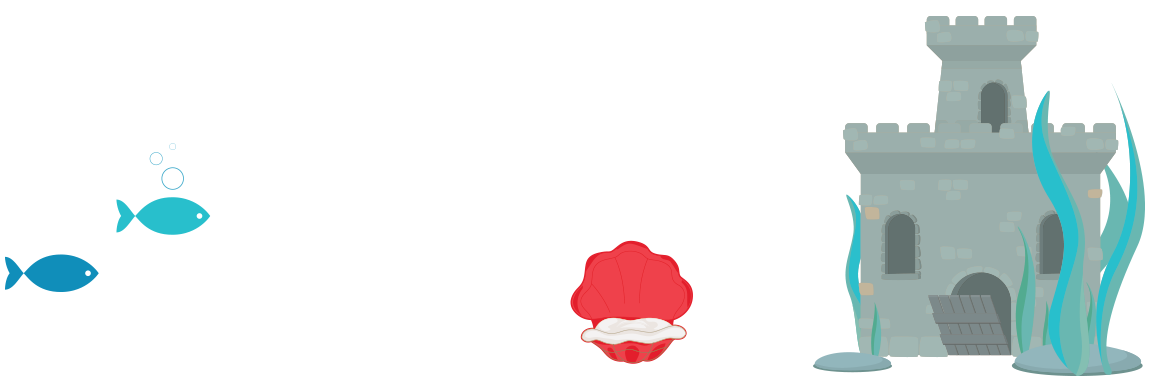
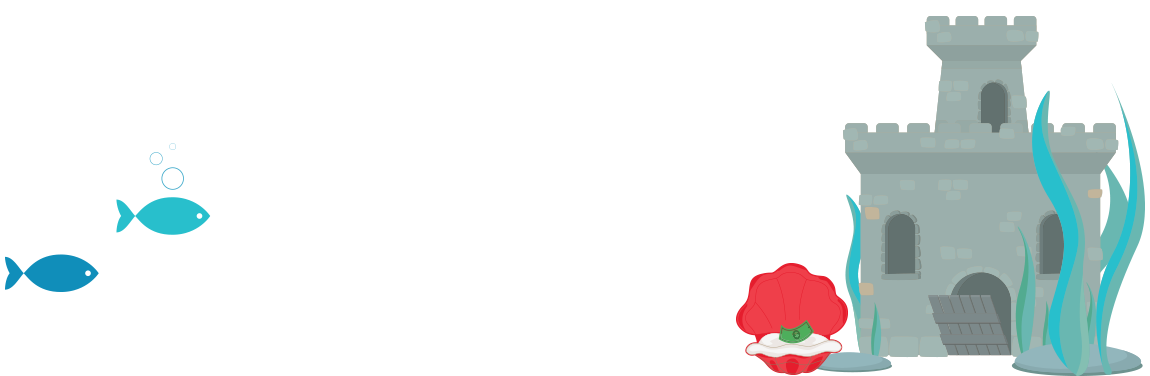
Add bubbles and fish around calculator divs, add starfish, adjust credit card calculation and output, and change styles for results divs when they're calculated.

Changed region(s): [[0.487, 0.6436, 0.6087, 0.9654], [0.6391, 0.7021, 0.7609, 1.0]]

diff --git a/css/main.css b/css/main.css
@@ -1,1 +1,1 @@
[2 lines of base64/hex data omitted]

diff --git a/js/main.js b/js/main.js
@@ -1,1 +1,1 @@
-!function(a,b,c,d){a.extend(a.fn,{accrue:function(b){return b=a.extend({calculationMethod:f},a.fn.accrue.options,b),this.each(function(){var c=a(this);c.find(".form").length||c.append('<div class="form"></div>');e(c,b,"amount"),e(c,b,"rate"),e(c,b,"term");if("compare"==b.mode){e(c,b,"rate_compare")}if(".results"===b.response_output_div){0==c.find(".results").length&&c.append('<div class="results"></div>');var d=c.find(".results")}else var d=a(b.response_output_div);switch(b.mode){case"basic":var i=f;break;case"compare":var i=g;break;case"amortization":var i=h}i(c,b,d),"button"==b.operation?(0==c.find("button").length&&c.find(".form").append('<button class="accrue-calculate">'+b.button_label+"</button>"),c.find("button, input[type=submit]").each(function(){a(this).click(function(a){a.preventDefault(),i(c,b,d)})})):c.find("input, select").each(function(){a(this).bind("keyup change",function(){i(c,b,d)})}),c.find("form").each(function(){a(this).submit(function(a){a.preventDefault(),i(c,b,d)})})})}}),a.fn.accrue.options={mode:"basic",operation:"keyup",default_values:{amount:"$7,500",rate:"7%",rate_compare:"1.49%",term:"36m"},field_titles:{amount:"Loan Amount",rate:"Rate (APR)",rate_compare:"Comparison Rate",term:"Term"},button_label:"Calculate",field_comments:{amount:"",rate:"",rate_compare:"",term:"Format: 12m, 36m, 3y, 7y"},response_output_div:".results",response_basic:"<p><strong>Monthly Payment:</strong><br />$%payment_amount%</p><p><strong>Number of Payments:</strong><br />%num_payments%</p><p><strong>Total Payments:</strong><br />$%total_payments%</p><p><strong>Total Interest:</strong><br />$%total_interest%</p>",response_compare:"Save $%savings% in interest!",error_text:"Please fill in all fields.",callback:function(a,b){}};var e=function(a,b,c){var d=a.find("."+c).length?a.find("."+c):a.find(".accrue-"+c).length?a.find(".accrue-"+c):a.find("input[name~="+c+"]").length?a.find("input[name~="+c+"]"):"";return"string"!=typeof d?d.val():"term_compare"==c?!1:(a.find(".form").append('<div class="accrue-field-'+c+'"><p><label>'+b.field_titles[c]+':</label><input type="text" class="'+c+'" value="'+b.default_values[c]+'" />'+(b.field_comments[c].length>0?"<small>"+b.field_comments[c]+"</small>":"")+"</p></div>"),a.find("."+c).val())},f=function(b,c,d){var f=a.loanInfo({amount:e(b,c,"amount"),rate:e(b,c,"rate"),term:e(b,c,"term")});if(0!==f){var g=c.response_basic.replace("%payment_amount%",f.payment_amount_formatted).replace("%num_payments%",f.num_payments).replace("%total_payments%",f.total_payments_formatted).replace("%total_interest%",f.total_interest_formatted);d.html(g)}else d.html(c.error_text);c.callback(b,f)},g=function(b,c,d){var f=e(b,c,"term_compare");f===!1&&(f=e(b,c,"term"));var g=a.loanInfo({amount:e(b,c,"amount"),rate:e(b,c,"rate"),term:e(b,c,"term")}),h=a.loanInfo({amount:e(b,c,"amount"),rate:e(b,c,"rate_compare"),term:f}),i={loan_1:g,loan_2:h};if(0!==g&&0!==h){g.total_interest-h.total_interest>0?i.savings=g.total_interest-h.total_interest:i.savings=0;var j=c.response_compare.replace("%savings%",i.savings.toFixed(2)).replace("%loan_2_payment_amount%",h.payment_amount_formatted).replace("%loan_2_num_payments%",h.num_payments).replace("%loan_2_total_payments%",h.total_payments_formatted).replace("%loan_2_total_interest%",h.total_interest_formatted).replace("%loan_1_payment_amount%",g.payment_amount_formatted).replace("%loan_1_num_payments%",g.num_payments).replace("%loan_1_total_payments%",g.total_payments_formatted).replace("%loan_1_total_interest%",g.total_interest_formatted);d.html(j)}else d.html(c.error_text);c.callback(b,i)},h=function(b,c,d){var f=a.loanInfo({amount:e(b,c,"amount"),rate:e(b,c,"rate"),term:e(b,c,"term")});if(0!==f){var g='<table class="accrue-amortization"><tr><th class="accrue-payment-number">#</th><th class="accrue-payment-amount">Payment Amt.</th><th class="accrue-total-interest">Total Interest</th><th class="accrue-total-payments">Total Payments</th><th class="accrue-balance">Balance</th></tr>',h=f.payment_amount-f.original_amount/f.num_payments,i=f.payment_amount-h;counter_interest=0,counter_payment=0,counter_balance=parseInt(f.original_amount);for(var j=0;j<f.num_payments;j++){counter_interest+=h,counter_payment+=f.payment_amount,counter_balance-=i;var k="td";j==f.num_payments-1&&(k="th"),g=g+"<tr><"+k+' class="accrue-payment-number">'+(j+1)+"</"+k+"><"+k+' class="accrue-payment-amount">$'+f.payment_amount_formatted+"</"+k+"><"+k+' class="accrue-total-interest">$'+counter_interest.toFixed(2)+"</"+k+"><"+k+' class="accrue-total-payments">$'+counter_payment.toFixed(2)+"</"+k+"><"+k+' class="accrue-balance">$'+counter_balance.toFixed(2)+"</"+k+"></tr>"}g+="</table>",d.html(g)}else d.html(c.error_text);c.callback(b,f)};a.loanInfo=function(a){var b=("undefined"!=typeof a.amount?a.amount:0).replace(/[^\d.]/gi,""),c=("undefined"!=typeof a.rate?a.rate:0).replace(/[^\d.]/gi,""),d="undefined"!=typeof a.term?a.term:0;d=d.match("y")?12*parseInt(d.replace(/[^\d.]/gi,"")):parseInt(d.replace(/[^\d.]/gi,""));var e=c/1200,f=b*(e/(1-Math.pow(1+e,-1*d)));return b*c*d>0?{original_amount:b,payment_amount:f,payment_amount_formatted:f.toFixed(2),num_payments:d,total_payments:f*d,total_payments_formatted:(f*d).toFixed(2),total_interest:f*d-b,total_interest_formatted:(f*d-b).toFixed(2)}:0}}(jQuery,window,document),$(function(){$(".calculator.credit").accrue({mode:"compare",response_output_div:".result.credit",response_compare:"<strong>Payment: $%loan_2_payment_amount%/mo<br>Savings: $%savings%</strong>",error_text:"<span>Enter balance and rate to see payment and savings.</span>"}),$(".calculator.loan-auto").accrue({mode:"compare",response_output_div:".result.auto",response_compare:"<strong>Payment: $%loan_2_payment_amount%/mo<br>Savings: $%savings%</strong>",error_text:"<span>Enter loan info to see payment and savings.</span>"}),$(".calculator.loan-personal").accrue({mode:"compare",response_output_div:".result.personal",response_compare:"<strong>Payment: $%loan_2_payment_amount%/mo<br>Savings: $%savings%</strong>",error_text:"<span>Enter loan info to see payment and savings.</span>",callback:function(a,b){console.log(b)}}),$(".numbers-only").keyup(function(){var a=$(this).val().replace(/[^0-9.]/g,"");$(this).val(a)})});var valid_email=function(a){var b=/^\s*[\w\-\+_]+(\.[\w\-\+_]+)*\@[\w\-\+_]+\.[\w\-\+_]+(\.[\w\-\+_]+)*\s*$/;return-1!=String(a).search(b)},contact_submit=function(a){$(a).find("input[type=submit]").attr("disabled","disabled");var b={name:$(a).find("input[name=name]").val(),email:$(a).find("input[name=email]").val(),phone:$(a).find("input[name=phone]").val(),friend_name:$(a).find("input[name='friend-name']").val(),friend_email:$(a).find("input[name='friend-email']").val(),friend_phone:$(a).find("input[name='friend-phone']").val()},c=$.param(b),d=[],e=$(a).find(".error");return b.name.length<2&&d.push("Please provide a name."),valid_email(b.email)||d.push("Please provide a valid email address."),0==d.length?$.post("send.php",c,function(a){console.log(a),"success"===a?location.href="/thanks.html":e.html("There was a problem submitting the form. Please call us for further assistance.").slideDown(400)}):(e.html(""),$.each(d,function(a,b){0===a?e.append(b):e.append("<br>"+b)}),e.is(":hidden")&&e.slideDown(400),$(a).find("input[type=submit]").removeAttr("disabled")),!1};$(document).ready(function(){$("form#contact").submit(function(a){a.preventDefault(),contact_submit(this)})});
+!function(a,b,c,d){a.extend(a.fn,{accrue:function(b){return b=a.extend({calculationMethod:f},a.fn.accrue.options,b),this.each(function(){var c=a(this);c.find(".form").length||c.append('<div class="form"></div>');e(c,b,"amount"),e(c,b,"rate"),e(c,b,"term");if("compare"==b.mode){e(c,b,"rate_compare")}if(".results"===b.response_output_div){0==c.find(".results").length&&c.append('<div class="results"></div>');var d=c.find(".results")}else var d=a(b.response_output_div);switch(b.mode){case"basic":var i=f;break;case"compare":var i=g;break;case"amortization":var i=h}i(c,b,d),"button"==b.operation?(0==c.find("button").length&&c.find(".form").append('<button class="accrue-calculate">'+b.button_label+"</button>"),c.find("button, input[type=submit]").each(function(){a(this).click(function(a){a.preventDefault(),i(c,b,d)})})):c.find("input, select").each(function(){a(this).bind("keyup change",function(){i(c,b,d)})}),c.find("form").each(function(){a(this).submit(function(a){a.preventDefault(),i(c,b,d)})})})}}),a.fn.accrue.options={mode:"basic",operation:"keyup",default_values:{amount:"$7,500",rate:"7%",rate_compare:"1.49%",term:"36m"},field_titles:{amount:"Loan Amount",rate:"Rate (APR)",rate_compare:"Comparison Rate",term:"Term"},button_label:"Calculate",field_comments:{amount:"",rate:"",rate_compare:"",term:"Format: 12m, 36m, 3y, 7y"},response_output_div:".results",response_basic:"<p><strong>Monthly Payment:</strong><br />$%payment_amount%</p><p><strong>Number of Payments:</strong><br />%num_payments%</p><p><strong>Total Payments:</strong><br />$%total_payments%</p><p><strong>Total Interest:</strong><br />$%total_interest%</p>",response_compare:"Save $%savings% in interest!",error_text:"Please fill in all fields.",callback:function(a,b){}};var e=function(a,b,c){var d=a.find("."+c).length?a.find("."+c):a.find(".accrue-"+c).length?a.find(".accrue-"+c):a.find("input[name~="+c+"]").length?a.find("input[name~="+c+"]"):"";return"string"!=typeof d?d.val():"term_compare"==c?!1:(a.find(".form").append('<div class="accrue-field-'+c+'"><p><label>'+b.field_titles[c]+':</label><input type="text" class="'+c+'" value="'+b.default_values[c]+'" />'+(b.field_comments[c].length>0?"<small>"+b.field_comments[c]+"</small>":"")+"</p></div>"),a.find("."+c).val())},f=function(b,c,d){var f=a.loanInfo({amount:e(b,c,"amount"),rate:e(b,c,"rate"),term:e(b,c,"term")});if(0!==f){var g=c.response_basic.replace("%payment_amount%",f.payment_amount_formatted).replace("%num_payments%",f.num_payments).replace("%total_payments%",f.total_payments_formatted).replace("%total_interest%",f.total_interest_formatted);d.html(g)}else d.html(c.error_text);c.callback(b,f)},g=function(b,c,d){var f=e(b,c,"term_compare");f===!1&&(f=e(b,c,"term"));var g=a.loanInfo({amount:e(b,c,"amount"),rate:e(b,c,"rate"),term:e(b,c,"term")}),h=a.loanInfo({amount:e(b,c,"amount"),rate:e(b,c,"rate_compare"),term:f}),i={loan_1:g,loan_2:h};if(0!==g&&0!==h){g.total_interest-h.total_interest>0?i.savings=g.total_interest-h.total_interest:i.savings=0;var j=c.response_compare.replace("%savings%",i.savings.toFixed(2)).replace("%loan_2_payment_amount%",h.payment_amount_formatted).replace("%loan_2_num_payments%",h.num_payments).replace("%loan_2_total_payments%",h.total_payments_formatted).replace("%loan_2_total_interest%",h.total_interest_formatted).replace("%loan_1_payment_amount%",g.payment_amount_formatted).replace("%loan_1_num_payments%",g.num_payments).replace("%loan_1_total_payments%",g.total_payments_formatted).replace("%loan_1_total_interest%",g.total_interest_formatted);d.html(j)}else d.html(c.error_text);c.callback(b,i)},h=function(b,c,d){var f=a.loanInfo({amount:e(b,c,"amount"),rate:e(b,c,"rate"),term:e(b,c,"term")});if(0!==f){var g='<table class="accrue-amortization"><tr><th class="accrue-payment-number">#</th><th class="accrue-payment-amount">Payment Amt.</th><th class="accrue-total-interest">Total Interest</th><th class="accrue-total-payments">Total Payments</th><th class="accrue-balance">Balance</th></tr>',h=f.payment_amount-f.original_amount/f.num_payments,i=f.payment_amount-h;counter_interest=0,counter_payment=0,counter_balance=parseInt(f.original_amount);for(var j=0;j<f.num_payments;j++){counter_interest+=h,counter_payment+=f.payment_amount,counter_balance-=i;var k="td";j==f.num_payments-1&&(k="th"),g=g+"<tr><"+k+' class="accrue-payment-number">'+(j+1)+"</"+k+"><"+k+' class="accrue-payment-amount">$'+f.payment_amount_formatted+"</"+k+"><"+k+' class="accrue-total-interest">$'+counter_interest.toFixed(2)+"</"+k+"><"+k+' class="accrue-total-payments">$'+counter_payment.toFixed(2)+"</"+k+"><"+k+' class="accrue-balance">$'+counter_balance.toFixed(2)+"</"+k+"></tr>"}g+="</table>",d.html(g)}else d.html(c.error_text);c.callback(b,f)};a.loanInfo=function(a){var b=("undefined"!=typeof a.amount?a.amount:0).replace(/[^\d.]/gi,""),c=("undefined"!=typeof a.rate?a.rate:0).replace(/[^\d.]/gi,""),d="undefined"!=typeof a.term?a.term:0;d=d.match("y")?12*parseInt(d.replace(/[^\d.]/gi,"")):parseInt(d.replace(/[^\d.]/gi,""));var e=c/1200,f=b*(e/(1-Math.pow(1+e,-1*d)));return b*c*d>0?{original_rate:c,original_term:d,original_amount:b,payment_amount:f,payment_amount_formatted:f.toFixed(2),num_payments:d,total_payments:f*d,total_payments_formatted:(f*d).toFixed(2),total_interest:f*d-b,total_interest_formatted:(f*d-b).toFixed(2)}:0}}(jQuery,window,document),$(function(){$(".calculator.credit input[type=text]").on("keyup",function(){var a=parseFloat($(".calculator.credit .amount").val().replace(/[^0-9.]/g,""))*parseFloat($(".calculator.credit .rate").val().replace(/[^0-9.]/g,"")/100),b=.089*parseFloat($(".calculator.credit .amount").val().replace(/[^0-9.]/g,""));a-b>0?($(".result.credit").addClass("calculated"),$(".result.credit").html("<strong>Interest Savings: $"+(a-b).toFixed(2)+"</strong>")):($(".result.credit").removeClass("calculated"),$(".result.credit").html("<span>Enter balance and rate to calculate savings.</span>"))}),$(".calculator.loan-auto").accrue({mode:"compare",response_output_div:".result.auto",response_compare:"<strong>Payments as low as: $%loan_2_payment_amount%/mo<br>Savings: $%savings%</strong>",error_text:"<span>Enter loan info to see payment and savings.</span>",callback:function(a,b){0!=b.loan_1?$(".result.auto").addClass("calculated"):$(".result.auto").removeClass("calculated")}}),$(".calculator.loan-personal").accrue({mode:"compare",response_output_div:".result.personal",response_compare:"<strong>Payments as low as: $%loan_2_payment_amount%/mo<br>Savings: $%savings%</strong>",error_text:"<span>Enter loan info to see payment and savings.</span>",callback:function(a,b){0!=b.loan_1?$(".result.personal").addClass("calculated"):$(".result.personal").removeClass("calculated")}}),$(".numbers-only").keyup(function(){var a=$(this).val().replace(/[^0-9.]/g,"");$(this).val(a)})});var valid_email=function(a){var b=/^\s*[\w\-\+_]+(\.[\w\-\+_]+)*\@[\w\-\+_]+\.[\w\-\+_]+(\.[\w\-\+_]+)*\s*$/;return-1!=String(a).search(b)},contact_submit=function(a){$(a).find("input[type=submit]").attr("disabled","disabled");var b={name:$(a).find("input[name=name]").val(),email:$(a).find("input[name=email]").val(),phone:$(a).find("input[name=phone]").val(),friend_name:$(a).find("input[name='friend-name']").val(),friend_email:$(a).find("input[name='friend-email']").val(),friend_phone:$(a).find("input[name='friend-phone']").val()},c=$.param(b),d=[],e=$(a).find(".error");return b.name.length<2&&d.push("Please provide a name."),b.friend_name.length<2&&d.push("Please provide a friend's name."),valid_email(b.email)||d.push("Please provide a valid email address."),valid_email(b.friend_email)||d.push("Please provide a valid friend's email address."),0==d.length?$.post("send.php",c,function(a){console.log(a),"success"===a?location.href="/thanks.html":e.html("There was a problem submitting the form. Please call us for further assistance.").slideDown(400)}):(e.html(""),$.each(d,function(a,b){0===a?e.append(b):e.append("<br>"+b)}),e.is(":hidden")&&e.slideDown(400),$(a).find("input[type=submit]").removeAttr("disabled")),!1};$(document).ready(function(){$("form#contact").submit(function(a){a.preventDefault(),contact_submit(this)})});

diff --git a/js/src/calculator.js b/js/src/calculator.js
@@ -2,27 +2,60 @@
 
 $(function(){
 
+	/*
 	$(".calculator.credit").accrue({
 		mode: "compare",
 		response_output_div: ".result.credit",
-		response_compare:"<strong>Payment: $%loan_2_payment_amount%/mo<br>Savings: $%savings%</strong>",
-		error_text:"<span>Enter balance and rate to see payment and savings.</span>"
+		response_compare:"<strong>Savings: $%savings%</strong>",
+		error_text:"<span>Enter balance and rate to calculate savings.</span>",
+		callback: function( elem, data ) {
+			console.log( data );
+			if ( data.loan_1 != 0 ) {
+				$(".result.credit").addClass('calculated');
+			} else {
+				$(".result.credit").removeClass('calculated');
+			}
+		}
 	});
+	*/
+	$(".calculator.credit input[type=text]").on('keyup',function(){
+		var interest_old = parseFloat( $('.calculator.credit .amount').val().replace(/[^0-9.]/g,"") ) * parseFloat( $('.calculator.credit .rate').val().replace(/[^0-9.]/g,"") / 100 );
+		var interest_new = parseFloat( $('.calculator.credit .amount').val().replace(/[^0-9.]/g,"") ) * .089;
+		if ( interest_old-interest_new > 0 ) {
+			$(".result.credit").addClass('calculated');
+			$(".result.credit").html( "<strong>Interest Savings: $"+(interest_old-interest_new).toFixed(2)+"</strong>" );
+		} else {
+			$(".result.credit").removeClass('calculated');
+			$(".result.credit").html( "<span>Enter balance and rate to calculate savings.</span>" );
+		}
+	});
+
 
 	$(".calculator.loan-auto").accrue({
 		mode: "compare",
 		response_output_div: ".result.auto",
-		response_compare:"<strong>Payment: $%loan_2_payment_amount%/mo<br>Savings: $%savings%</strong>",
-		error_text:"<span>Enter loan info to see payment and savings.</span>"
+		response_compare:"<strong>Payments as low as: $%loan_2_payment_amount%/mo<br>Savings: $%savings%</strong>",
+		error_text:"<span>Enter loan info to see payment and savings.</span>",
+		callback: function( elem, data ) {
+			if ( data.loan_1 != 0 ) {
+				$(".result.auto").addClass('calculated');
+			} else {
+				$(".result.auto").removeClass('calculated');
+			}
+		}
 	});
 
 	$(".calculator.loan-personal").accrue({
 		mode: "compare",
 		response_output_div: ".result.personal",
-		response_compare:"<strong>Payment: $%loan_2_payment_amount%/mo<br>Savings: $%savings%</strong>",
+		response_compare:"<strong>Payments as low as: $%loan_2_payment_amount%/mo<br>Savings: $%savings%</strong>",
 		error_text:"<span>Enter loan info to see payment and savings.</span>",
 		callback: function( elem, data ) {
-			console.log( data );
+			if ( data.loan_1 != 0 ) {
+				$(".result.personal").addClass('calculated');
+			} else {
+				$(".result.personal").removeClass('calculated');
+			}
 		}
 	});
 

diff --git a/index.html b/index.html
@@ -94,7 +94,7 @@
 					<input type="hidden" class="rate_compare" value="8.90" />
 				</div>
 				<div class="third">
-					<p class="result credit"></p>
+					<p class="result credit"><span>Enter balance and rate to calculate savings.</span></p>
 				</div>
 				<div class="group"></div>
 			</div>
@@ -106,7 +106,7 @@
 				</a>
 			</div>
 
-
+			<!--
 			<div class="refer" id="refer">
 				<h3>Do you love the credit union? Share it with your friends and family. We love helping them save more!</h3>
 
@@ -134,6 +134,7 @@
 					<div class="group"></div>
 				</div>
 			</div>
+			-->
 
 		</div>
 			
@@ -152,7 +153,7 @@
 <div class="wrap">
 	<footer class="wrap fineprint">
 		<img src="img/logo-housing.png">
-		* APR = Annual Percentage Rate. Rates as of 3/15/2017. Credit restrictions apply. Rates based on creditworthiness, term and other factors. Rate and promotion are subject to change at any time. See credit union for details. Loans financed with the credit union must finance an additional minimum of $10,000.00 to qualify for refinancing. All loans subject to approval. Payment example: $10,000 auto loan for 60 months at 4.00% APR will result in a monthly payment of $184.20. Foreign Transaction fee of 1% of the transaction amount may apply; see VISA credit agreement for more information. Membership eligibility required. A Prime Share account (membership) with a minimum deposit is required upon loan approval. See a Member Service Specialist for more details. Calculator based on best scenario. Your savings may be different depending on your unique situation and creditworthiness. This credit union is insured by the National Credit Union Administration.
+		* APR = Annual Percentage Rate. Rates as of 3/20/17. Credit restrictions apply. Rates based on creditworthiness, term and other factors. Rate and promotion are subject to change at any time. See credit union for details. Loans financed with the credit union must finance an additional minimum of $10,000.00 to qualify for refinancing. All loans subject to approval. Payment example: $10,000 auto loan for 60 months at 4.00% APR will result in a monthly payment of $184.20. Foreign Transaction fee of 1% of the transaction amount may apply; see VISA credit agreement for more information. Membership eligibility required. A Prime Share account (membership) with a minimum deposit is required upon loan approval. See a Member Service Specialist for more details. Calculator based on best scenario. Your savings may be different depending on your unique situation and creditworthiness. This credit union is insured by the National Credit Union Administration.
 	</footer>
 </div>
 `

diff --git a/css/src/main.scss b/css/src/main.scss
@@ -130,6 +130,7 @@ header {
 	.calculator {
 		padding: 20px;
 		color: white;
+		position: relative;
 
 		.third.first {
 			text-align: center;
@@ -211,6 +212,65 @@ header {
 			text-align: center;
 			line-height: 1.4em;
 			padding: 20px;
+			border-radius: 10px;
+			background-color: transparent;
+			transition: 1s background-color ease-in-out;
+
+			&.calculated {
+				background-color: $green;
+			}
+		}
+
+		@include respond-to( 768px ) {
+			&.credit:after {
+				content: ' ';
+				background: url(../img/starfish.png) center center no-repeat;
+				width: 100px;
+				height: 100px;
+				position: absolute;
+				right: 30px;
+				bottom: -20px;
+			}
+
+			&.loan-personal:after {
+				content: ' ';
+				background: url(../img/fish1.png) center center no-repeat;
+				width: 100px;
+				height: 100px;
+				position: absolute;
+				left: -120px;
+				bottom: -20px;
+			}
+
+			&.loan-auto:after {
+				content: ' ';
+				background: url(../img/fish2.png) center center no-repeat;
+				width: 100px;
+				height: 100px;
+				position: absolute;
+				right: -140px;
+				top: 20px;
+			}
+
+			&.loan-personal:before {
+				content: ' ';
+				background: url(../img/bubbles2.png) center center no-repeat;
+				width: 100px;
+				height: 100px;
+				position: absolute;
+				right: -120px;
+				top: -20px;
+			}
+
+			&.loan-auto:before {
+				content: ' ';
+				background: url(../img/bubbles1.png) center center no-repeat;
+				width: 100px;
+				height: 100px;
+				position: absolute;
+				left: -100px;
+				bottom: 20px;
+			}
 		}
 	}	
 }
@@ -248,6 +308,28 @@ header {
 		color: white;
 	}
 
+	&:after {
+		content: ' ';
+		position: absolute;
+		bottom: -120px;
+		right: 0;
+		left: 0;
+		height: 120px;
+		background: url(../img/underwater.png) bottom center no-repeat;
+		background-size: contain;
+		pointer-events: none;
+	}
+
+	@include respond-to( 600px ) {
+		margin-bottom: 120px;
+		&:after { height: 370px; bottom: -160px; }
+	}
+
+	@include respond-to( 900px ) {
+		margin-bottom: 230px;
+		&:after { bottom: -270px; }
+	}
+
 }
 
 
@@ -275,7 +357,7 @@ header {
 		right: 0;
 		left: 0;
 		height: 120px;
-		background: url(../img/underwater.png) bottom center no-repeat;
+		background: url(../img/underwater.png?v=1) bottom center no-repeat;
 		background-size: contain;
 		pointer-events: none;
 	}

diff --git a/js/lib/accrue.js b/js/lib/accrue.js
@@ -409,6 +409,8 @@
         if ( amount*rate*term>0 ) {
             // Fill in the output fields, rounding to 2 decimal places
             return {
+                original_rate: rate,
+                original_term: term,
                 original_amount: amount,
                 payment_amount: monthly,
                 payment_amount_formatted: monthly.toFixed(2),
